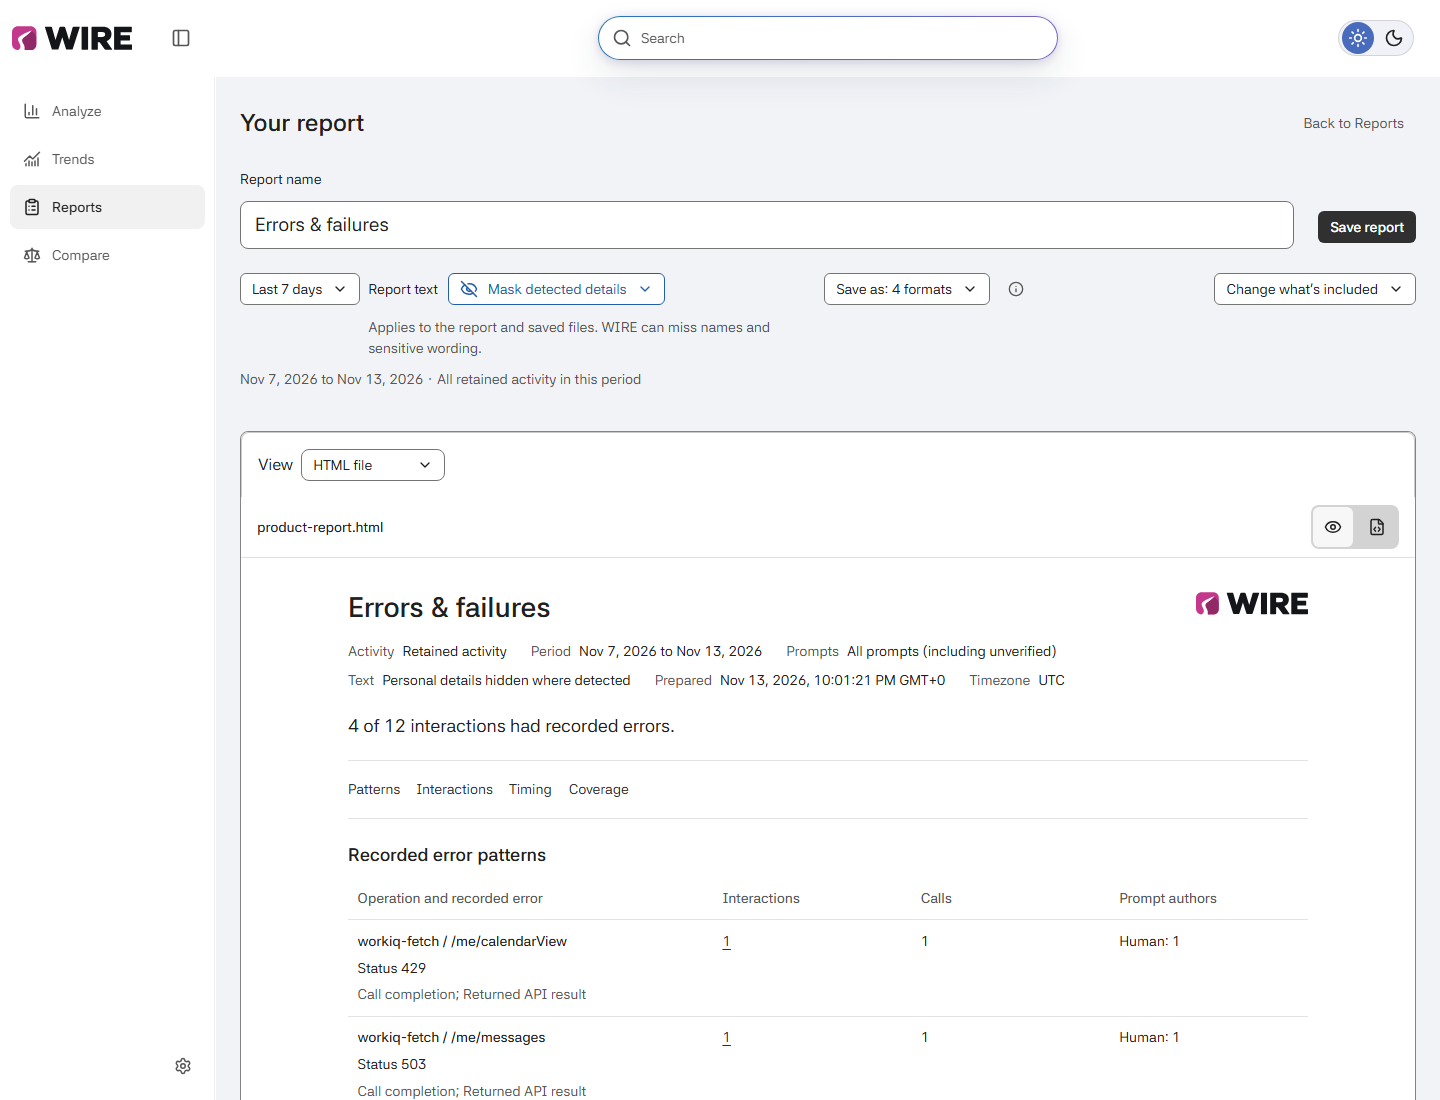
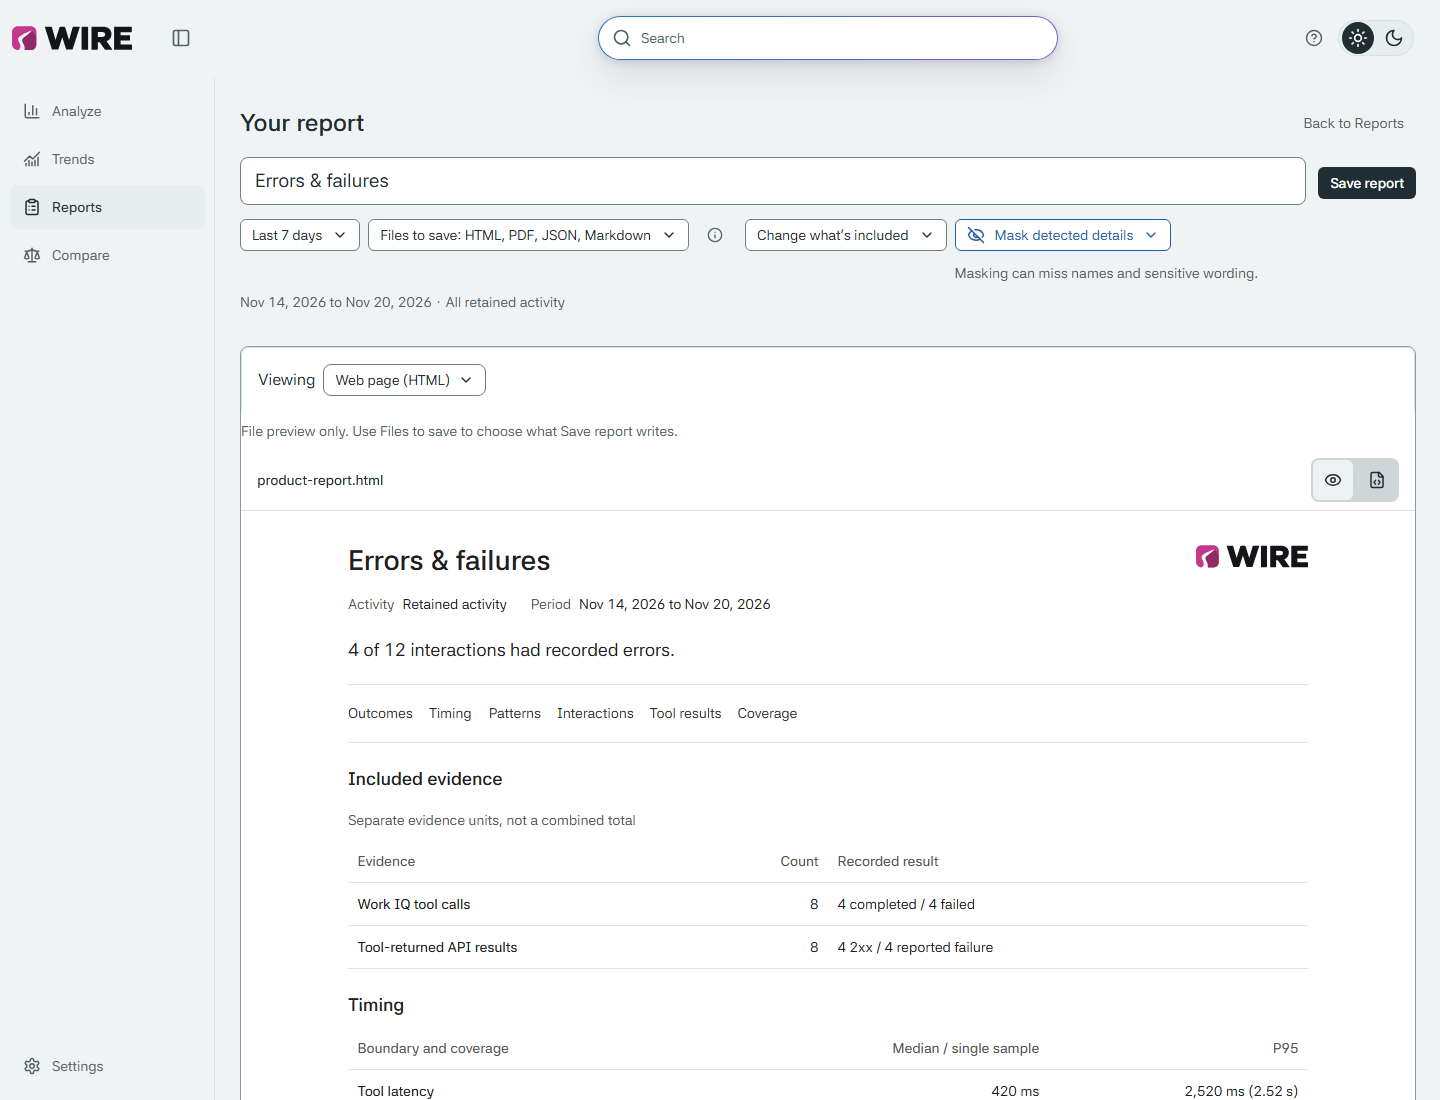
Document preparation, output selection and saved reading on the Reports desk

diff --git a/docs/reporting.md b/docs/reporting.md
@@ -12,16 +12,16 @@ Contributors changing report behavior should also read the
 
 ## Open a report
 
-Open **Reports**, choose a period and check **Report text** before opening a report.
+Open **Reports** and choose a saved name to read that copy, or use **View all**
+to search the library. Under **New report**, choose a focus and check the outline:
+**Activity**, **Dates**, **Report text** and **Files to save**.
 The default, **Mask detected details**, keeps the wording with local masking.
 You can leave out prompts and replies or keep chat details instead.
 This choice applies to the readable report and its saved files.
-Choose a tile to open the report in the main reading area. **Save report** saves
-its current files locally without a required setup or text-review checklist.
-Saved reports sit below the five choices. Each choice has a help icon available
-by pointer, keyboard or touch.
+**Prepare preview** opens the report in the main reading area without writing
+files. **Save report** saves its current files locally.
 
-![Report text is available before the five report choices; saved reports appear below.](images/report-choices.png)
+![Recent saved reports above a new report outline with activity, dates, text and file choices.](images/report-choices.png)
 
 | Report | Includes |
 | --- | --- |
@@ -51,8 +51,9 @@ report's period and activity explicitly. To narrow an open report, use
 | Current Analyze view | Every matching interaction across pages, with its complete eligible evidence, not just the individual calls matching a chart. |
 | All collected activity | Retained reportable activity independently of Analyze dates, filters, Search and paging. It does not collect new history or include complete original chat transcripts. |
 
-Choose the scope, select interactions if needed, then use **Show report**.
-The activity picker keeps **Close** and **Show report** visible while its
+From the outline, choose **Activity**, select the scope and use **Use activity**
+to return without preparing. From an open report use **Show report** to update it.
+The activity picker keeps its actions visible while its
 contents scroll together, without a second scroll area inside the interaction list.
 Failure summaries keep the recorded tool name; open an interaction to read its
 exact calls and returned results. **Close** leaves your selection intact; it does not save a report.
@@ -60,8 +61,8 @@ You can also use **Add to report > Continue to report** in an interaction reader
 Reading or selecting an interaction alone does not save a report.
 
 **Back to Reports** returns to the choices and saved list. It keeps an unfinished
-copy in memory. Choose the same tile again without changing its dates to resume
-that copy, including its name and notes. Choosing another type replaces the
+copy in memory. Use **Resume preview** with the same focus and unchanged dates to
+return to that copy, including its name and notes. Preparing another focus replaces the
 unfinished copy. Reports entered from Analyze keep their contextual return.
 
 **Selected interactions** initially includes your picks across all dates.
@@ -105,7 +106,7 @@ can say, for example, that 4 of 12 interactions contained a recorded error.
 Only those 4 cases contribute prompt or diagnostic copies. The other
 interactions supply the frozen reference count, not additional disclosed text.
 
-![An error report with its frozen frequency, section links and separate Save as and View controls.](images/report-preview.png)
+![An error report with its frozen frequency, section links and separate file selection and viewing controls.](images/report-preview.png)
 
 Use the section links to jump to patterns, interactions, timing or coverage.
 Open a section or interaction to read its full evidence. **Expand sections**
@@ -132,12 +133,12 @@ or sensitive wording.
 **Change what's included** holds author/service/outcome choices and optional
 linked context. **Authors in report** keeps your choices as a draft until
 **Apply**; **Cancel** leaves the accepted authors unchanged.
-**View > Report text** opens optional text inspection.
+**Viewing > Report text** opens optional text inspection.
 It shows one **Report copy** at a time, with its interaction and recorded author.
 **Local original** switches to the retained source; it is not an extra copy
 included in the report. **Edit or omit this report copy**, then **Update report
 copy**, changes only that report copy. The original stays unchanged.
-Return to **Report** or a file through **View**.
+Return to **Report** or a file through **Viewing**.
 
 ![Report text showing one included copy, its author and a separate Local original choice.](images/report-text.png)
 
@@ -161,8 +162,9 @@ Masking, edits and omissions still control the diagnostic copies. A fixed WIRE
 interpretation can remain when you leave out error-message text; it does not
 restore the omitted wording or read prompts, replies or arguments.
 
-**Save as** chooses HTML, PDF, JSON or Markdown files; you can select more than
-one. **View** changes what you are reading: **Report** is the readable page,
+**Files to save** chooses a web page (HTML), print document (PDF), structured
+data (JSON) or editable text (Markdown); you can select more than one.
+**Viewing** changes only what you are reading: **Report** is the readable page,
 while a file choice shows that actual format in its own reading pane. Text
 inspection stays out of the file view. PDF has page controls, JSON has
 a field tree, and HTML and Markdown offer Preview/Source. Switching views does
@@ -179,7 +181,7 @@ text mode. Changing the name, text, notes or formats regenerates prepared
 files while keeping the original interaction cohort. Your selected file and
 Preview/Source mode stay selected during these updates and after changing the
 report period or call filters. Removing that file
-from **Save as** returns to **Report**. Save is unavailable until the update finishes.
+from **Files to save** returns to **Report**. Save is unavailable until the update finishes.
 
 ![The actual HTML file in a full reading pane, with Preview and Source controls.](images/report-file-preview.png)
 
@@ -192,7 +194,7 @@ that remain included. Only copies removed with the linked context lose their edi
 If the same recorded message appears as both an originating prompt and a follow-up,
 it shares one copy choice with context enabled. Conflicting choices are refused,
 not silently replaced.
-Changing the choice on Reports does not prepare a report until you open a tile.
+Changing choices in the outline does not prepare a report until you select **Prepare preview**.
 Reopening the same unfinished report keeps its frozen activity.
 
 <a id="approve-save-and-reopen"></a>
@@ -291,7 +293,7 @@ experience with the same formats, masking, optional notes and local Save.
 **Back to comparison** restores its dates, choices and reading position while
 access remains valid.
 
-For existing reports, open **Reports > Compare saved reports**, choose
+For existing reports, open **Reports > View all > Compare saved reports**, choose
 **Earlier report** and **Later report**, then **Compare reports**. This uses
 their frozen facts, not current history. Different definitions, missing facts
 or incompatible identities can prevent a comparison. A saved two-period report
@@ -307,7 +309,8 @@ per-call coverage. Older saved comparisons keep their original presentation.
 
 ## Remove a saved copy
 
-Choose **Delete report** or **Delete saved comparison** on its row.
+Open the full library with **View all** and choose **Delete report** or
+**Delete saved comparison** on its row.
 Its confirmation removes that managed bundle, not original source
 activity or external downloads. **Saved-report options > Delete all saved
 reports** previews all report bundles across pages and search, not just visible

diff --git a/docs/interaction-design.md b/docs/interaction-design.md
@@ -399,23 +399,27 @@ result authority.
 
 ### Landing and saved list
 
-Reports is one workspace: report choices first, saved reports directly below.
-There is no separate Create report navigation entry. Choosing a tile or a saved
-name replaces the landing with full-area reading. Reports-origin reading has one
+Reports is one workspace: recent saved reports first, a new report outline below.
+There is no separate Create report navigation entry. Opening a saved name or
+preparing the outline replaces the landing with full-area reading. Reports-origin reading has one
 Back to Reports action; context-qualified entries retain their own origin.
 
-The landing has five compact, equal-sized full-width tile rows: All activity,
+The outline has five focus choices: All activity,
 Errors & failures, Completed calls, Human prompts and Agent prompts. Compare
-has its own primary destination. The report period is visible, defaults to
+has its own primary destination. A narrow outline uses one focus selector.
+Changing focus shows what the report includes; it never prepares or saves.
+The report period is visible, defaults to
 Last 7 days, and offers 14/30/custom choices. Custom dates opens its calendar
 directly. A fresh report ignores old Analyze restrictions.
 Report text is visible before the choices and defaults to Mask detected details.
 Changing it updates the draft without preparing or saving. The same control moves
 into the report toolbar; its choice reaches the initial preparation unchanged.
-Selected and Current remain available through inclusion
-controls and their original context-qualified entries.
+Selected and Current are available before preparation through Activity, after
+preparation through inclusion controls, and through their contextual entries.
 
-Saved rows align Report, Report text and Actions. The name and its leading document
+Recent entries show their names and compact saved periods. Date ranges share
+month/year only where accurate; longer ranges wrap instead of losing endpoints.
+View all opens the full library. Its rows align Report, Report text and Actions. The name and its leading document
 icon open in-app reading. Preparation time is a secondary line under the name,
 not part of a generated title. Known saved periods appear there separately.
 A single list note identifies missing period metadata instead of repeating
@@ -428,7 +432,7 @@ anonymization guarantee, and missing metadata is not inferred.
 Delete uses a quiet text treatment; its confirmation retains the destructive action.
 The header menu preserves bulk deletion with its existing confirmation.
 Inspection alone does not read, download or delete a file.
-Every report choice has accessible help. Saved-report paging follows the rows
+The outline explains its selected focus. Saved-report paging follows the rows
 in visual and keyboard order. Privacy and file actions keep their separate
 meaning. Rows share column widths; narrow layouts stack identity/dates, text
 treatment and actions without shortening their contents.
@@ -436,13 +440,13 @@ treatment and actions without shortening their contents.
 ### Returning to an unfinished report
 
 Back restores saved search, order, paging, scroll and activating control.
-It preserves the authorized unfinished copy without another visible resume
-entry: choosing the same type with unchanged dates resumes that copy.
+It preserves the authorized unfinished copy. The preparation action becomes
+Resume preview when the selected focus can reopen it.
 An unresolved Save remains visible and uses its original recovery owner.
 
 ### Preparation and reading
 
-Choosing a tile prepares the report and shows pending feedback until it is ready.
+Prepare preview freezes the report and shows pending feedback until it is ready.
 A compact toolbar owns its name, period, personal-detail choice and formats,
 with Save beside the name.
 The name updates the document heading without remounting its input. Optional
@@ -467,7 +471,7 @@ and the existing navigation owners.
 
 ### Formats
 
-Save as chooses output files. View chooses Report or an actual format preview,
+Files to save chooses output files. Viewing chooses Report or an actual format preview,
 with PDF pages, a JSON tree or HTML/Markdown Preview/Source. Returning from a file
 to the same authorized HTML report keeps its open sections and reading position.
 JSON-only saves can render a readable page from their verified frozen snapshot.

diff --git a/docs/user-guide.md b/docs/user-guide.md
@@ -285,7 +285,9 @@ of those selections. Use **Save report** to keep its files.
 
 ## Make a report
 
-Open **Reports**, check **Report text**, then choose a ready-made report.
+Open **Reports**. Select a recent saved report by name, or choose **View all**
+to search older copies. To make a report, select its focus under **New report**
+and check the activity, dates and text treatment in the outline.
 The default, **Mask detected details**, keeps the wording with local masking.
 Change it before opening the report or while reading it. Keeping chat details
 shows a red warning; masking can still miss names or sensitive wording.
@@ -293,14 +295,15 @@ Choose **Leave out prompts and replies** to omit chat wording. Notes and selecte
 error messages remain. The period starts at **Last 7 days**, independently of
 your Analyze filters.
 
-Read its patterns and supporting interactions, then optionally add a note or
-edit a report copy. **Save as** chooses HTML, PDF, JSON or Markdown files;
-**View** previews them. **Save report** keeps those files on this device.
+Select **Prepare preview** to read the patterns and supporting interactions.
+You can add a note or edit a report copy. **Files to save** chooses the HTML,
+PDF, JSON or Markdown files to write; **Viewing** only changes what you read.
+**Save report** keeps the chosen files on this device.
 If you keep chat details, the warning lets you hide details and save, save
 with those details, or go back without writing anything.
 
-Saved reports appear below the report choices. Select a name to read it, or use
-**Files** to choose a format. **Back to Reports** returns to that workspace.
+Select a saved name to read it, or use **Files** in the full library to open a
+specific format. **Back to Reports** returns to that workspace.
 Saved files preserve their original facts and text. The
 [report guide](reporting.md) explains each template's membership, how edits
 affect an unfinished copy, and how to save, reopen or compare reports.

diff --git a/docs/report-contract.md b/docs/report-contract.md
@@ -225,11 +225,11 @@ Qualified GitHub previews pin the original content-addressed evidence file.
 Later collection can add follow-ups without changing prepared copies.
 
 The Reports landing combines choices and saved access. Back is not discard,
-preparation or Save. Selecting the same type with unchanged dates can reopen
+preparation or Save. Resuming the same focus with unchanged dates can reopen
 the authorized in-memory preview, including its edits, without recapturing
 membership. Legacy create URLs and Selected/Current/contextual entry retain
 their scope. An unconfirmed write cannot be hidden behind the landing or
-replayed through a tile. Saved-list menus use the current authorized index;
+replayed through a new preparation. Saved-list menus use the current authorized index;
 withdrawal retires their held text and actions with the existing readers.
 Accepted activity deletion, changed scope and preview replacement use the same
 prepared-copy retirement boundary. It scrubs app-owned mutable Text/Attr nodes,
